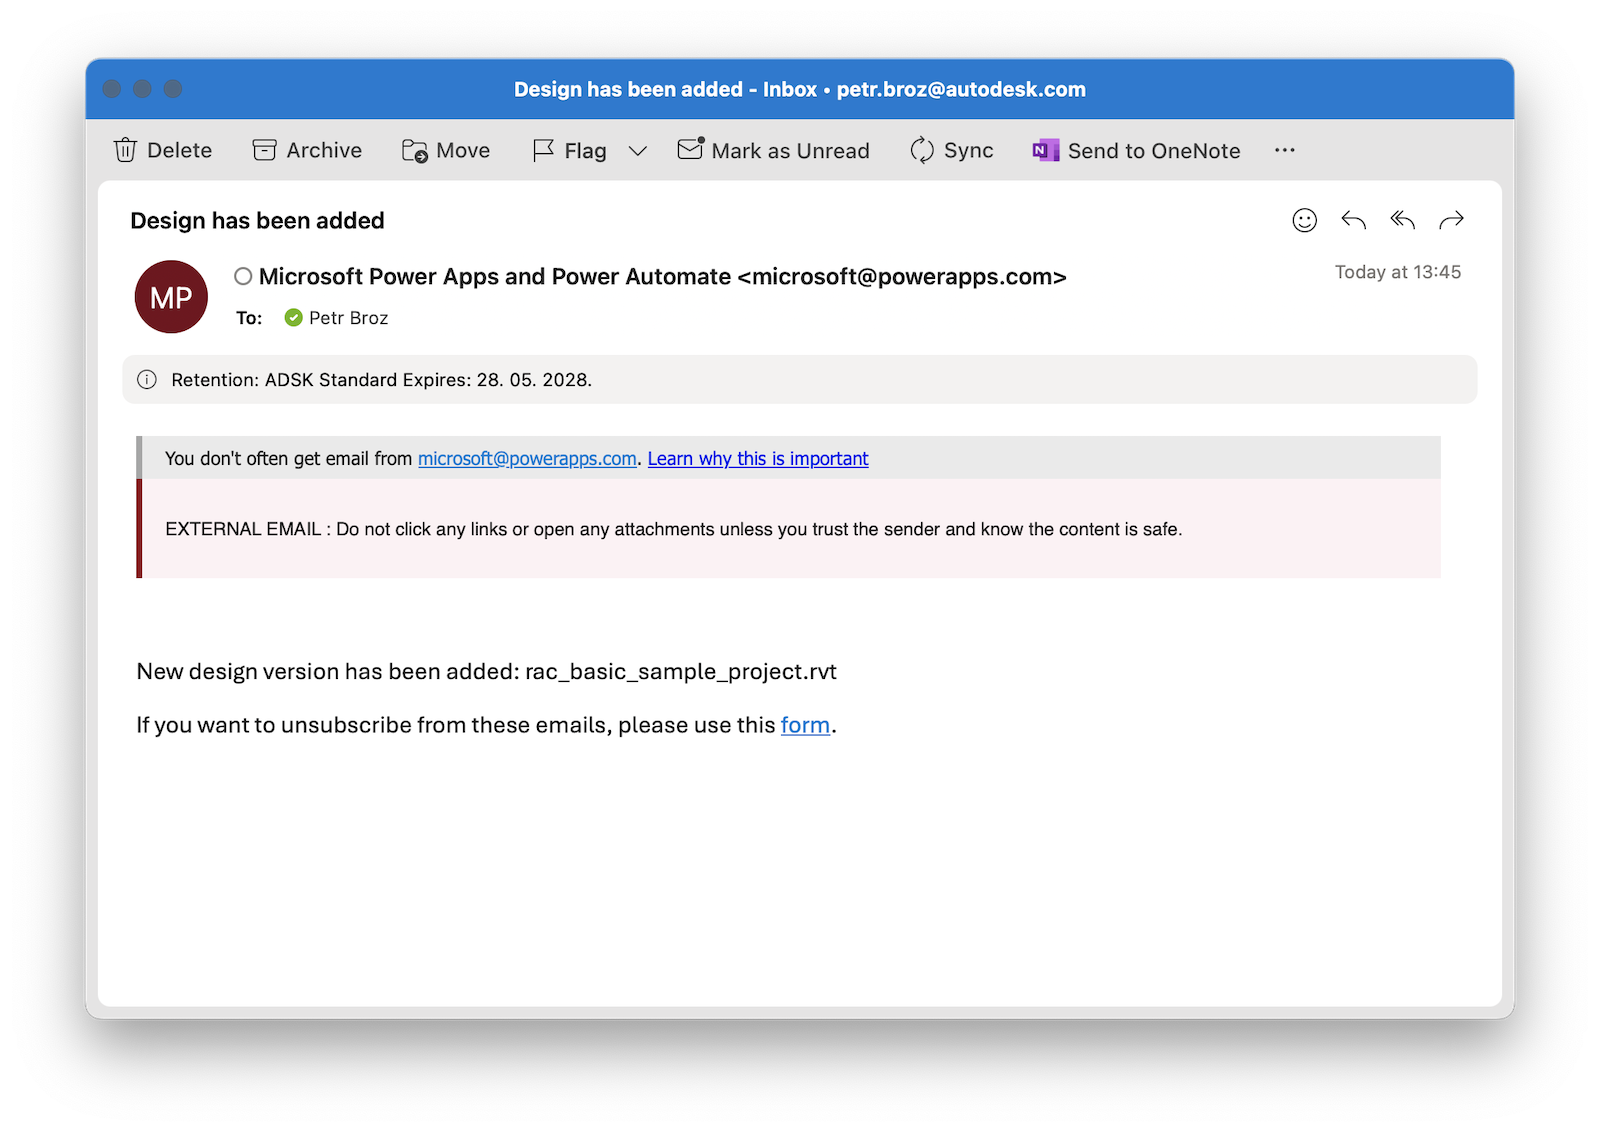
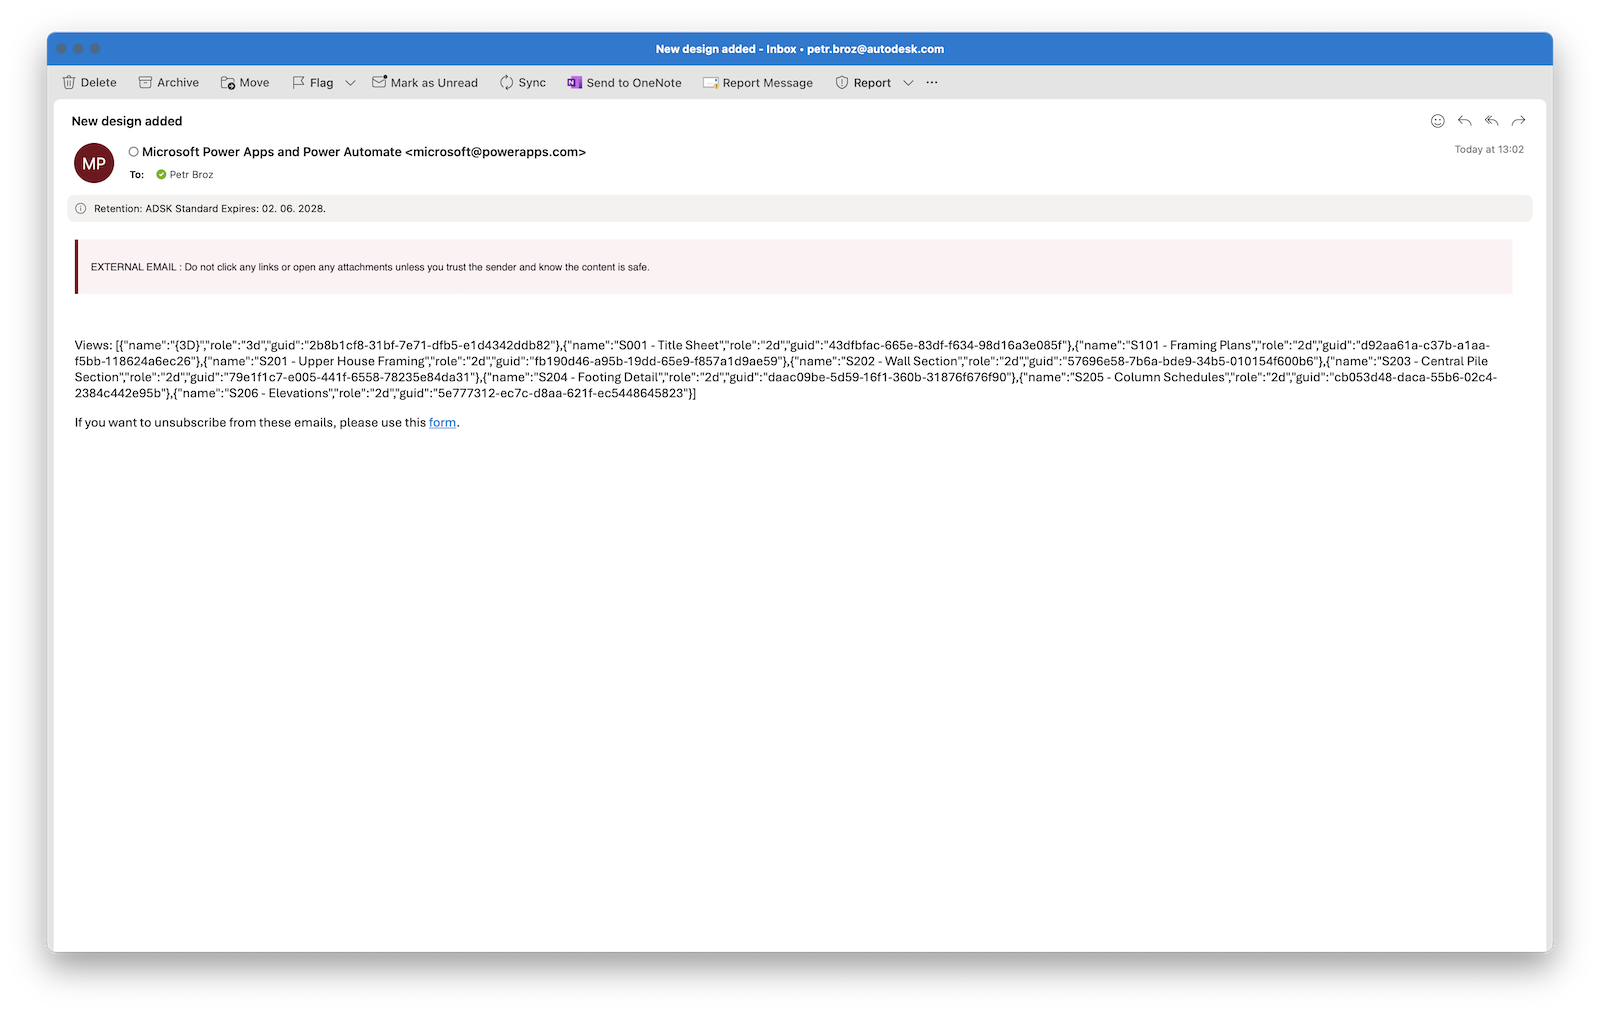
Updated the create simple flow tutorial.

Changed region(s): [[0.0, 0.0306, 1.0, 0.9783], [0.0938, 0.5809, 0.5312, 0.6726], [0.8438, 0.214, 0.9062, 0.2446]]

diff --git a/docs/tutorials/create-simple-flow/index.md b/docs/tutorials/create-simple-flow/index.md
@@ -1,62 +1,148 @@
 # Create Simple Flow
 
-In this tutorial, we will walk through the process of creating a simple automated flow in Power Automate that sends an email notification whenever a new design version is added to a specific folder in Autodesk Construction Cloud. You'll learn how to set up the trigger, configure the action, and test your flow to ensure it works as expected.
+In this tutorial, we will walk through the process of creating a Power Automate flow that will:
 
-!> This tutorial assumes that you have already created or imported the custom connectors for APS described in previous tutorials.
+- Trigger whenever a new design is added to a specific folder in Autodesk Construction Cloud
+- Check names of all design views, and create an issue in Autodesk Construction Cloud if any of the 3D views has the default name `{3D}`
+- Send an email with a summary of all the views
 
-## Create an automated flow
+!> This tutorial assumes that you have already created or imported custom connectors described in previous tutorials.
+
+## Create a flow
 
 - In Power Automate, create a new flow by clicking **Create** in the left sidebar, and selecting **Automated cloud flow**
 
 ![Create automated cloud flow](images/create-automated-cloud-flow.png)
 
-> Note: if a **Build an automated cloud flow** dialog pops up, click **Skip** to go straight to the flow designer.
+- In the **Build an automated cloud flow** dialog that pops up, click **Skip** to go straight to the flow designer
 
 ## Add a trigger
+
+First we create a trigger that will start our flow whenever a design is added to our ACC project. We will also extract the URN of the added design, and save it in a variable for later use.
+
+> ### Tip: Folder URN
+>
+> In this section we will need a _URN_ of a folder in ACC that will be monitored for changes. For simple experiments you can get the folder URN from https://acc.autodesk.com:
+>
+> - Go to your ACC project, and select the folder you want to monitor
+> - Grab the **folderUrn** query parameter from the URL
+> - URL-decode it (for example, using https://www.urldecoder.org)
+> - After decoding the URN should look something like this: `urn:adsk.wipprod:fs.folder:...`
+>
+> ![Get folder URN from ACC](images/acc-get-folderurn.png)
 
 - In the flow designer, click on the **Add a trigger** block
 - In the **Add a trigger** panel that slides in from the left, search for `design added`, set the filter under the search field to **Custom**, and select the **When new design version is added** trigger
 
 ![Add trigger to flow](images/flow-select-trigger.png)
 
-> Note: if this is the first time you're using the custom connector, Power Automate will ask you to sign in. Click **Sign in**, and log in with your Autodesk account.
+> Note: if this is the first time you're using the custom connector, Power Automate will ask you to sign in. In that case simply log in with your Autodesk account.
 
 - In the **When new design version is added** configuration panel, add the following details:
   - **Folder URN**: a URN of one of your folders in ACC
 
-    > Tip: if you don't have one, go to your ACC project, navigate to one of the folders, grab the **folderUrn** query parameter from the URL, and url-decode it (for example, using https://www.urldecoder.org); the url-decoded folder URN should look something like this: `urn:adsk.wipprod:fs.folder:...`
-    >
-    > ![Get folder URN from ACC](images/acc-get-folderurn.png)
-
 ![Set folder URN for trigger](images/flow-trigger-folderurn.png)
 
-## Add an action
+- Click the plus icon under the trigger in the flow editor to add an action
+- In the **Add an action** panel that slides in from the left, search for `initialize variable`, and select the **Initialize variable** action
+- Set the following details in the **Initialize variable** panel:
+  - **Name**: `urn`
+  - **Type**: **String**
+  - **Value**: click the small **fx** icon, enter the expression `replace(base64(triggerOutputs()?['body/resourceUrn']),'/','_')`, and click **Add**
 
-- Click on the plus icon under the trigger to add an action
-- In the **Add an action** panel that slides in from the left, search for `email`
-- Select the **Send an email notification (V3)** action
+    > Note: the expression basically extracts the `resourceUrn` field from our webhook trigger, base64-encodes it, and replaces any `/` characters with `_`; the result is the URN that we can later use when sending requests to the Model Derivative service.
 
-![Add action to flow](images/flow-add-action.png)
+  - Click the **Initialize variable** title in the top-left, and provide a more meaningful name: `Extract model URN`
 
-- In the **Send an email notification (V3)** configuration panel, add the following details:
+![Extract model URN action](images/action-extract-model-urn.png)
+
+## Retrieve model views
+
+Next, let's add a small piece of logic that will wait until the design file has been fully processed.
+
+- Click the plus icon under the **Extract model URN** block in the flow editor, and add a **Do until** action
+- Inside the **Do until** block, click the plus icon, add a **Delay** action, and configure it with:
+  - **Count**: `30`
+  - **Unit**: **Second**
+  - Click the **Delay** title in the top-left, and provide a more meaningful name: `Wait 30 seconds`
+- Click the plus icon under the **Wait 30 seconds** block, add a **List model views** action, and configure it with:
+  - **Urn**: click the small lightning icon, and select the `urn` variable we initialized earlier
+- Select the **Do until** block, and configure it with:
+  - **Loop until**: click the small **fx** icon, enter the expression `outputs('List_model_views')?['statusCode']`, and click **Add**
+
+  > Note: this expression will extract the `statusCode` field from the output of the previous action (**List model views**).
+
+  - **is equal to** `200`
+  - **Count**: 10
+
+![List model views action](images/action-list-model-views.png)
+
+- Click the plus icon under the **Do until** block, add an **Initialize variable** action, and configure it with:
+  - **Name**: `views`
+  - **Type**: **Array**
+  - **Value**: click the small lightning icon, and add the `body/data/metadata` field from the **List model views** action
+  - Click the **Initialize variable** title in the top-left, and provide a more meaningful name: `Extract model views`
+
+![Extract model views action](images/action-extract-model-views.png)
+
+## Check view names
+
+- Click the plus icon under the **Extract model views** block, add an **Apply to each** action, and configure it with:
+  - **Select an output from previous steps**: click the small lightning icon, and add the `views` variable we initialized earlier
+  - Click the **Apply to each** title in the top-left, and provide a more meaningful name: `For each view`
+
+![For each view action](images/action-for-each-view.png)
+
+- Inside the **Apply to each** block, click the plus icon, add a **Condition** action, and configure it with:
+  - **Choose a value**: click the small **fx** icon, enter the expression `item()?['name']`, and click **Add**
+
+  > Note: this expression will extract the `name` field of every item from the collection being iterated over.
+
+  - **is equal to** `{3D}`
+  - Click the **Condition** title in the top-left, and provide a more meaningful name: `Has default name`
+
+![Has default name condition](images/action-has-default-name.png)
+
+## Create an issue
+
+> ### Tip: Issue Subtype ID
+>
+> In this section we will need an _issue type ID_. For simple experiments you can get the ID from https://acc.autodesk.com:
+>
+> - Go to your ACC project, and head over to the **Issues** section
+> - Expand the **Settings** dropdown on the right side, and click **Types**
+> - Select one of the issue types, for example, **General**
+> - Grab the **typeOrCategoryId** query parameter from the URL
+> ![Get issue type ID from ACC](images/acc-get-issuetypeid.png)
+
+- Inside the **True** branch of the **Has default name** block, click the plus icon, add a **Create issue** action (don't forget to enable the **Custom** filter), and configure it with:
+  - **ProjectId**: click the small lightning icon, and add the `body/payload/project` field from the **When new design version is added** trigger
+  - **Issue Definition/title**: `3D view must not have default name`
+  - **Issue Definition/issueSubtypeId**: one of the issue type IDs from ACC
+  - **Issue Definition/status**: `open`
+
+![Create issue action](images/action-create-issue.png)
+
+## Send an e-mail
+
+- Click the plus icon under the **For each view** block, add a **Send an email notification (V3)** action, and configure it with:
   - **To**: your e-mail address
   - **Subject**: `Design has been added`
-  - **Body**: `New design version has been added: `
-- With the cursor still in the **Body** text field, click the little lightning bolt icon (or type in `/`) to add dynamic content
+  - **Body**: enter `Views: `, then click the **fx** icon, enter the expression `variables('views')`, and click **Add**
 
-![Configure email action](images/flow-send-email-config.png)
-
-- In the popup, search for `name`, and select **body/payload/name**, effectively extracting the name of the new design from our trigger
-
-![Configure email content](images/flow-send-email-dynamic-content.png)
+![Send email action](images/action-send-email.png)
 
 - Click **Save** in the top-right to save the flow, and then **Back** in the top-left to go back to the flow overview
 
 ## Try the flow
 
-Go to your ACC project, upload a file to the folder you've configured in the trigger, and an e-mail should arrive shortly after.
+Go to your ACC project, upload a Revit file to the folder you've configured in the trigger, and an e-mail should arrive shortly after:
 
-![Test email notification](images/email-notification.png  ':size=50%')
+![Test email notification](images/email-notification.png)
+
+Also, if your Revit file has at least one 3D view called `{3D}`, you should see a new issue in ACC:
+
+![Test issue in ACC](images/acc-issue.png)
 
 > Note: if you haven't received the e-mail, check the **Flow runs** in your flow overview page. If the flow run failed, open it (by clicking the timestamp of the run), and investigate the individual steps of the flow.
 > ![Test flow runs](images/flow-runs.png)
